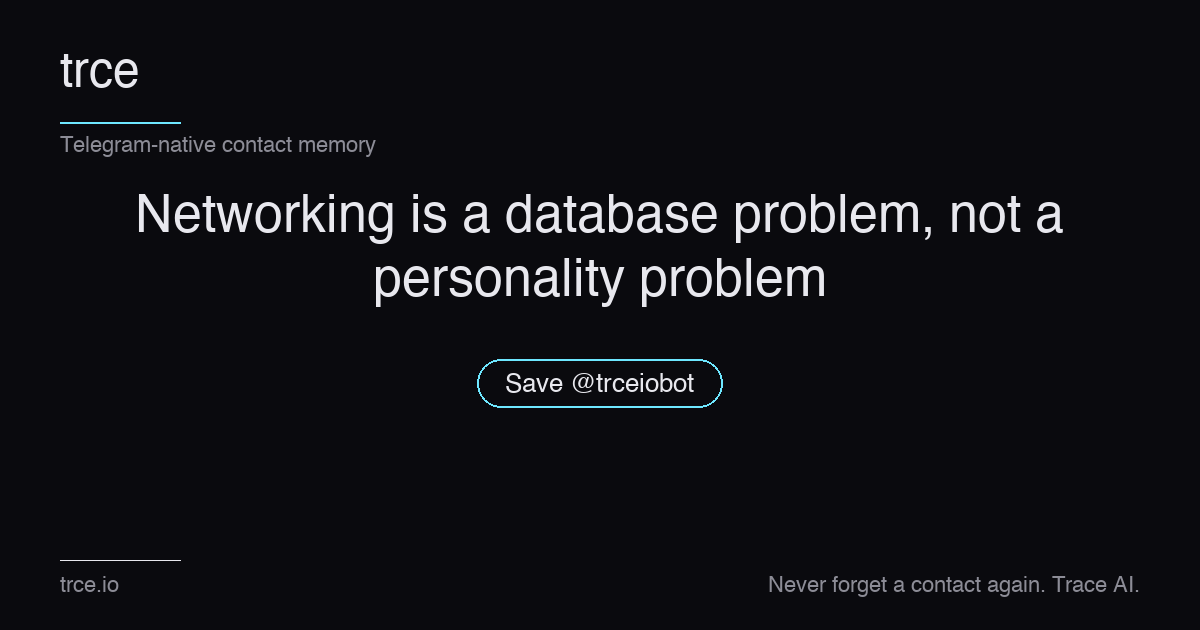
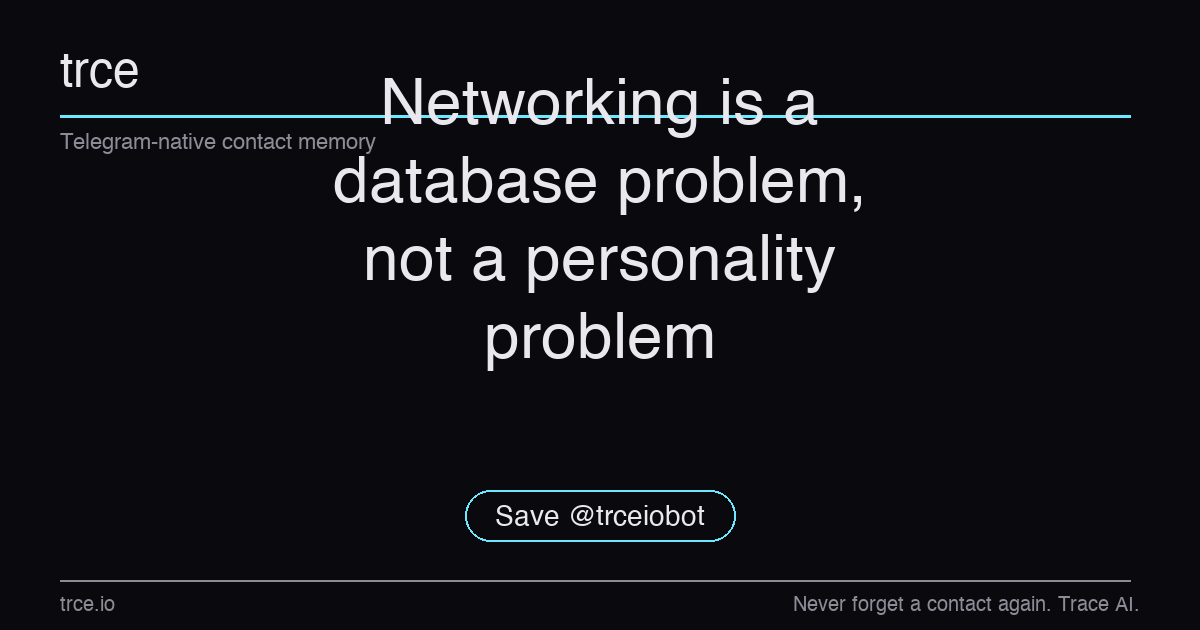
Blog: Networking is a database problem, not a personality problem

Changed region(s): [[0.0617, 0.1206, 0.925, 0.6635], [0.0308, 0.9048, 0.9558, 0.9952], [0.4008, 0.754, 0.5858, 0.8746]]

diff --git a/website/blog/networking-is-a-database-problem.html b/website/blog/networking-is-a-database-problem.html
@@ -4,20 +4,22 @@
 <meta charset="utf-8">
 <meta name="viewport" content="width=device-width, initial-scale=1">
 <title>Networking is a database problem, not a personality problem</title>
-<meta name="description" content="Why extroversion isn't the bottleneck in conference networking — and the three system fixes that move the needle on contact-to-revenue conversion.">
+<meta name="description" content="You don't need better social skills. You need a way to find the 247 people you already met. Dunbar, weak ties, and retrieval beats recall.">
 <meta property="og:title" content="Networking is a database problem, not a personality problem">
 <meta property="og:site_name" content="trce">
-<meta property="og:description" content="Why extroversion isn't the bottleneck in conference networking — and the three system fixes that move the needle on…">
+<meta property="og:description" content="You don't need better social skills. You need a way to find the 247 people you already met. Dunbar, weak ties, and retrieval beats recall.">
 <meta property="og:type" content="article">
 <meta property="og:locale" content="en_US">
 <meta property="og:url" content="https://trce.io/blog/networking-is-a-database-problem">
-<meta property="article:published_time" content="2026-06-24">
+<meta property="article:published_time" content="2026-07-19">
 <link rel="canonical" href="https://trce.io/blog/networking-is-a-database-problem">
 <meta property="og:image" content="https://trce.io/assets/blog-covers/networking-is-a-database-problem.png">
 <meta property="og:image:width" content="1200">
 <meta property="og:image:height" content="630">
 <meta property="og:image:alt" content="Networking is a database problem, not a personality problem">
 <meta name="twitter:card" content="summary_large_image">
+<meta name="twitter:title" content="Networking is a database problem, not a personality problem">
+<meta name="twitter:description" content="You don't need better social skills. You need a way to find the 247 people you already met. Dunbar, weak ties, and retrieval beats recall.">
 <meta name="twitter:image" content="https://trce.io/assets/blog-covers/networking-is-a-database-problem.png">
 <meta name="twitter:image:alt" content="Networking is a database problem, not a personality problem">
 <link rel="icon" type="image/png" sizes="any" href="/assets/trce-logo-square.png">
@@ -27,7 +29,7 @@
   "@context": "https://schema.org",
   "@type": "BlogPosting",
   "headline": "Networking is a database problem, not a personality problem",
-  "description": "Why extroversion isn't the bottleneck in conference networking — and the three system fixes that move the needle on contact-to-revenue conversion.",
+  "description": "You don't need better social skills. You need a way to find the 247 people you already met. Dunbar, weak ties, and retrieval beats recall.",
   "author": {
     "@type": "Organization",
     "name": "trce",
@@ -41,8 +43,8 @@
       "url": "https://trce.io/logo.png"
     }
   },
-  "datePublished": "2026-06-24",
-  "dateModified": "2026-06-24",
+  "datePublished": "2026-07-19",
+  "dateModified": "2026-07-19",
   "mainEntityOfPage": {
     "@type": "WebPage",
     "@id": "https://trce.io/blog/networking-is-a-database-problem"
@@ -86,13 +88,7 @@ body {
   -webkit-backdrop-filter: blur(20px);
   border-bottom: 1px solid var(--border-soft);
 }
-.logo {
-  font-family: 'JetBrains Mono', monospace;
-  font-size: 14px; font-weight: 500;
-  color: var(--accent);
-  display: flex; align-items: center; gap: 8px;
-  text-decoration: none;
-}
+.logo { font-family: 'JetBrains Mono', monospace; font-size: 14px; font-weight: 500; color: var(--accent); display: flex; align-items: center; gap: 8px; text-decoration: none; }
 .logo-dot { width: 6px; height: 6px; border-radius: 50%; background: var(--accent); box-shadow: 0 0 8px var(--accent); }
 .nav-links { display: flex; gap: 32px; list-style: none; font-family: 'JetBrains Mono', monospace; font-size: 12px; }
 .nav-links a { color: var(--text-2); text-decoration: none; transition: color .2s; }
@@ -101,109 +97,32 @@ body {
 .btn-nav { font-family: 'JetBrains Mono', monospace; font-size: 12px; padding: 8px 16px; background: var(--accent); color: #0a0a0a; border: none; border-radius: 6px; text-decoration: none; }
 .avatar { width: 28px; height: 28px; border-radius: 50%; background: var(--surface-2); border: 1px solid var(--border); display: flex; align-items: center; justify-content: center; font-family: 'JetBrains Mono', monospace; font-size: 11px; color: var(--text-3); }
 
-article {
-  max-width: 720px;
-  margin: 0 auto;
-  padding: 80px 32px;
-}
-.back-link {
-  font-family: 'JetBrains Mono', monospace;
-  font-size: 12px;
-  color: var(--text-3);
-  text-decoration: none;
-  margin-bottom: 48px;
-  display: inline-block;
-}
+article { max-width: 720px; margin: 0 auto; padding: 80px 32px; }
+.back-link { font-family: 'JetBrains Mono', monospace; font-size: 12px; color: var(--text-3); text-decoration: none; margin-bottom: 48px; display: inline-block; }
 .back-link:hover { color: var(--accent); }
 
 .post-header { margin-bottom: 64px; }
-.post-label {
-  font-family: 'JetBrains Mono', monospace;
-  font-size: 11px; letter-spacing: .08em;
-  text-transform: uppercase;
-  color: var(--accent);
-  margin-bottom: 16px;
-}
-.post-header h1 {
-  font-size: clamp(32px, 5vw, 52px);
-  font-weight: 200;
-  line-height: 1.15;
-  letter-spacing: -.03em;
-  margin-bottom: 24px;
-}
+.post-label { font-family: 'JetBrains Mono', monospace; font-size: 11px; letter-spacing: .08em; text-transform: uppercase; color: var(--accent); margin-bottom: 16px; }
+.post-header h1 { font-size: clamp(32px, 5vw, 52px); font-weight: 200; line-height: 1.15; letter-spacing: -.03em; margin-bottom: 24px; }
 .post-header h1 em { font-style: italic; color: var(--text-2); }
-.post-meta {
-  font-family: 'JetBrains Mono', monospace;
-  font-size: 11px;
-  color: var(--text-3);
-  display: flex; gap: 16px;
-}
+.post-meta { font-family: 'JetBrains Mono', monospace; font-size: 11px; color: var(--text-3); display: flex; gap: 16px; }
 
 article p { margin-bottom: 24px; line-height: 1.75; }
-article h2 {
-  font-size: 28px; font-weight: 400;
-  letter-spacing: -.02em;
-  margin: 56px 0 20px;
-}
-article h3 {
-  font-size: 20px; font-weight: 500;
-  letter-spacing: -.01em;
-  margin: 40px 0 12px;
-}
-article blockquote {
-  border-left: 3px solid var(--accent);
-  padding: 8px 0 8px 20px;
-  margin: 32px 0;
-  color: var(--text-2);
-  font-style: italic;
-}
-article ul, article ol {
-  margin: 16px 0 24px 24px;
-}
+article h2 { font-size: 28px; font-weight: 400; letter-spacing: -.02em; margin: 56px 0 20px; }
+article h3 { font-size: 20px; font-weight: 500; letter-spacing: -.01em; margin: 40px 0 12px; }
+article blockquote { border-left: 3px solid var(--accent); padding: 8px 0 8px 20px; margin: 32px 0; color: var(--text-2); font-style: italic; }
+article ul, article ol { margin: 16px 0 24px 24px; }
 article li { margin-bottom: 8px; line-height: 1.7; }
 article strong { color: var(--text); font-weight: 500; }
 article a { color: var(--accent); }
-article code {
-  font-family: 'JetBrains Mono', monospace;
-  font-size: 14px;
-  background: var(--surface);
-  padding: 2px 6px;
-  border-radius: 4px;
-  border: 1px solid var(--border);
-}
+article code { font-family: 'JetBrains Mono', monospace; font-size: 14px; background: var(--surface); padding: 2px 6px; border-radius: 4px; border: 1px solid var(--border); }
 
-.cta-box {
-  margin: 64px 0 32px;
-  padding: 32px;
-  background: var(--surface);
-  border: 1px solid var(--border);
-  border-radius: 12px;
-  text-align: center;
-}
+.cta-box { margin: 64px 0 32px; padding: 32px; background: var(--surface); border: 1px solid var(--border); border-radius: 12px; text-align: center; }
 .cta-box h3 { font-size: 22px; font-weight: 400; margin: 0 0 12px; }
 .cta-box p { font-size: 15px; color: var(--text-2); margin-bottom: 24px; }
-.btn-cta {
-  display: inline-block;
-  font-family: 'JetBrains Mono', monospace;
-  font-size: 13px;
-  padding: 14px 28px;
-  background: var(--accent);
-  color: #0a0a0a;
-  border: none;
-  border-radius: 8px;
-  cursor: pointer;
-  text-decoration: none;
-  font-weight: 500;
-}
+.btn-cta { display: inline-block; font-family: 'JetBrains Mono', monospace; font-size: 13px; padding: 14px 28px; background: var(--accent); color: #0a0a0a; border: none; border-radius: 8px; cursor: pointer; text-decoration: none; font-weight: 500; }
 
-.footer {
-  padding: 48px 32px 32px;
-  border-top: 1px solid var(--border);
-  text-align: center;
-  font-family: 'JetBrains Mono', monospace;
-  font-size: 11px;
-  color: var(--text-3);
-}
+.footer { padding: 48px 32px 32px; border-top: 1px solid var(--border); text-align: center; font-family: 'JetBrains Mono', monospace; font-size: 11px; color: var(--text-3); }
 .footer a { color: var(--text-3); }
 
 @media (max-width: 768px) {
@@ -225,7 +144,7 @@ article code {
   </ul>
   <div style="display: flex; align-items: center; gap: 16px;">
     <a class="btn-nav" href="https://t.me/trceiobot" target="_blank" rel="noopener">Open Bot →</a>
-    <div class="avatar">T</div>
+    <div class="avatar">N</div>
   </div>
 </nav>
 
@@ -234,67 +153,63 @@ article code {
   <a class="back-link" href="/blog">← All posts</a>
 
   <header class="post-header">
-    <div class="post-label">Systems</div>
-    <h1>Networking is a database problem, not a <em>personality problem</em></h1>
+    <div class="post-label">Networking systems</div>
+    <h1>Networking is a database problem, not a personality problem</h1>
     <div class="post-meta">
-      <span>2026-06-24</span>
+      <span>trce</span>
+      <span>·</span>
+      <span>2026-07-19</span>
       <span>·</span>
       <span>5 min read</span>
     </div>
   </header>
 
-  <p>You walked into Consensus with a stack of business cards and a smile. By the afterparty you'd met 80 people. By Monday you remembered 6 names. By the end of the quarter, you'd actually followed up with 2.</p>
+  <p>You walked into KBW with 247 new contacts in your Telegram. By the time you flew home, you could name 12. Three weeks later, you could find 3 when you actually needed them — and one of those was the guy you argued with about rollups.</p>
 
-  <p>That gap — 80 met, 2 followed up — is what most people blame on personality. They're not extroverted enough. Not aggressive enough. So they sign up for another event.</p>
+  <p>You didn't lose the contacts. They're still on your phone, still in some app you barely open. You lost the ability to find them. That's a database problem. And no amount of charisma fixes it.</p>
 
-  <p>Wrong diagnosis. The bottleneck isn't charm. It's the database.</p>
+  <h2>You were never going to remember 247 names</h2>
 
-  <h2>The data doesn't agree with the advice</h2>
+  <p>Robin Dunbar's research put the cognitive limit on stable social relationships at roughly 150. That's the people you can actually hold in your head — names, faces, context, last conversation. A four-day crypto conference can drop 300 to 500 names on you in a single week.</p>
 
-  <p>For a decade the networking industry has told people to "put themselves out there." Go to more mixers. Work the room. Lean into the elevator pitch. The implicit message: the people who close deals are the people who can talk to anyone.</p>
+  <p>Your brain isn't broken. It's working exactly as designed. The names you remember are the ones tied to specific anchors — the panel question, the shared joke, the second drink. The other 400% of your list is just noise that decays within 48 hours.</p>
 
-  <p>The research says the opposite. The MIT Lead Response Management study found that responding to a new contact within 5 minutes makes you 21 times more likely to qualify that lead than responding in 30 minutes. After the first hour, lead quality drops roughly 80%. That's a system problem — and it's solvable by anyone with a phone.</p>
+  <blockquote>Networking isn't about meeting more people. It's about being able to find the right one six weeks later when you actually need them.</blockquote>
 
-  <p>HubSpot's 2024 State of Marketing report found that 82% of buyers say they're more likely to trust a rep who follows up quickly with relevant context. Same survey: the average salesperson gives up after 2 follow-ups, even though 80% of sales require at least 5 to close. The reps losing those deals aren't uncharismatic. They're unfollowed-up.</p>
+  <h2>The Granovetter problem</h2>
 
-  <blockquote>The introvert with a searchable database closes more deals than the extrovert with a stack of business cards in a drawer.</blockquote>
+  <p>Mark Granovetter's 1973 paper "The Strength of Weak Ties" found that 83% of job placements came through acquaintances — not close friends. The people you barely remember are statistically the most valuable ones in your contact graph. They're the bridges to other rooms.</p>
 
-  <h2>Why extroverts feel like they win</h2>
-
-  <p>Extroverts think they're better at networking because they meet more people. They are. They meet roughly 30% more contacts per event than introverts in the same room.</p>
-
-  <p>But meeting isn't the bottleneck. Retrieval is. Bain & Company found that increasing customer retention by just 5% can lift profits by 25-95%. The compounding isn't in the meet. It's in the maintenance — and the maintenance requires finding the person three weeks later and remembering what they cared about.</p>
-
-  <p>Adam Grant's research at Wharton shows introverts consistently outperform extroverts in sales roles that require building deep client trust. The kind of role that depends on remembering what someone said, not on how confidently you walked into the room.</p>
-
-  <h2>What the system looks like</h2>
-
-  <p>At 30+ contacts a month, charm runs out before the list does. The people who actually convert events into revenue have three things in common:</p>
+  <p>But a weak tie is only useful if you can retrieve it. And retrieval requires two things your phone doesn't give you:</p>
 
   <ul>
-    <li>A <strong>capture step</strong> that takes under 5 seconds per contact — forwarding a Telegram QR to a bot, not typing a name into a spreadsheet</li>
-    <li>A <strong>retrieval layer</strong> that works when you're tired, hungover, or already at the next event — search by topic, by company, by role, not "scroll until I see them"</li>
-    <li>A <strong>follow-up cadence</strong> that triggers on time-since-meeting — the 24-hour window, then day 7, then day 30, without you having to remember to send each one</li>
+    <li>A specific anchor: what did this person say, ask, or care about?</li>
+    <li>A search surface: when you need a "DEX designer in Singapore", can you find them in 20 seconds?</li>
   </ul>
 
-  <p>None of those three pieces require a personality change. They require a tool change.</p>
+  <p>If the answer is scrolling through 1,400 contacts looking for an avatar, the weak tie is dead. You'll default to whoever you remember, and that's usually the loudest person in the room — not the most useful.</p>
 
-  <h2>What to fix this week</h2>
+  <h2>Retrieval beats recall</h2>
 
-  <p>You don't need to become someone else. You need to upgrade the system:</p>
+  <p>The shift that actually works at scale is treating your contact list like a database, not a memory. Three rules make this stick:</p>
 
   <ul>
-    <li><strong>Pick one capture tool and use it for 30 days.</strong> Telegram bot, CRM, contact app — doesn't matter. Consistency beats features.</li>
-    <li><strong>Stop writing "met at [event]" notes.</strong> Write what you talked about. "Discussed L2 sequencer decentralisation" beats "Consensus 2026" every time.</li>
-    <li><strong>Schedule the 24-hour follow-up before you board the flight home.</strong> Reply rates drop from 40-60% (day 1) to 10-15% (day 7) to near-zero by week 3.</li>
-    <li><strong>Search your contact database by topic, not by name.</strong> "Who was talking about restaking risk?" should be answerable three weeks later.</li>
+    <li><strong>Capture at the moment.</strong> If saving takes more than five seconds, you stop doing it after contact 30. Forward to a bot, snap a photo, voice-memo a tag — whatever collapses the action to a single gesture.</li>
+    <li><strong>Anchor with one weird thing.</strong> Not their role. Not their company. The thing they disagreed with, the question that made you think, the detail you laughed about. That anchor is your retrieval key.</li>
+    <li><strong>Search, don't scroll.</strong> When you need "the person from the panel who cared about MEV", your system should answer in seconds. If you have to remember names, you've already lost.</li>
   </ul>
 
-  <p>The personality-first model is sold to introverts who feel guilty about not enjoying small talk. The system-first model is what compounds.</p>
+  <p>This is why we built <code>@trceiobot</code> as a Telegram-native inbox. The capture is a forward. The anchor is a one-line note. The search is a Telegram message. There's no app to open, no form to fill, no CRM to learn. The friction is the thing that kills every other system.</p>
+
+  <h2>The honest test</h2>
+
+  <p>Six weeks from now, you won't remember the 247 people you met at the next conference. That's biology. The question is whether, when someone mentions a contact you have, you can pull up the anchor in 20 seconds and write a context-aware follow-up.</p>
+
+  <p>If the answer is no, you didn't network. You collected business cards.</p>
 
   <div class="cta-box">
-    <h3>Fix the database.</h3>
-    <p>Open <code>@trceiobot</code>, type <code>/trip set [event name]</code>, and forward one Telegram QR from someone you met this week. The contact lands in a searchable database indexed by what you talked about — not just who they are.</p>
+    <h3>Build a contact database, not a contact memory.</h3>
+    <p>Forward your next Telegram QR to <code>@trceiobot</code>. See what changes when retrieval beats recall.</p>
     <a class="btn-cta" href="https://t.me/trceiobot" target="_blank" rel="noopener">Open @trceiobot →</a>
   </div>
 

diff --git a/website/blog/index.html b/website/blog/index.html
@@ -278,6 +278,22 @@ body {
 
 <section class="posts">
 
+  <a class="post-card" href="/blog/networking-is-a-database-problem">
+    <div class="post-cover">
+      <div class="post-cover-pattern"></div>
+      <div class="post-cover-icon">▤</div>
+    </div>
+    <div class="post-body">
+      <div class="post-meta">
+        <span>2026-07-19</span>
+        <span class="post-tag">networking systems</span>
+      </div>
+      <h2>Networking is a database problem, not a personality problem</h2>
+      <p>You don't need better social skills. You need a way to find the 247 people you already met. Dunbar, weak ties, and why retrieval beats recall.</p>
+      <div class="post-cta">Read post →</div>
+    </div>
+  </a>
+
   <a class="post-card" href="/blog/relationship-cadence-day-1-7-30-90">
     <div class="post-cover">
       <div class="post-cover-pattern"></div>